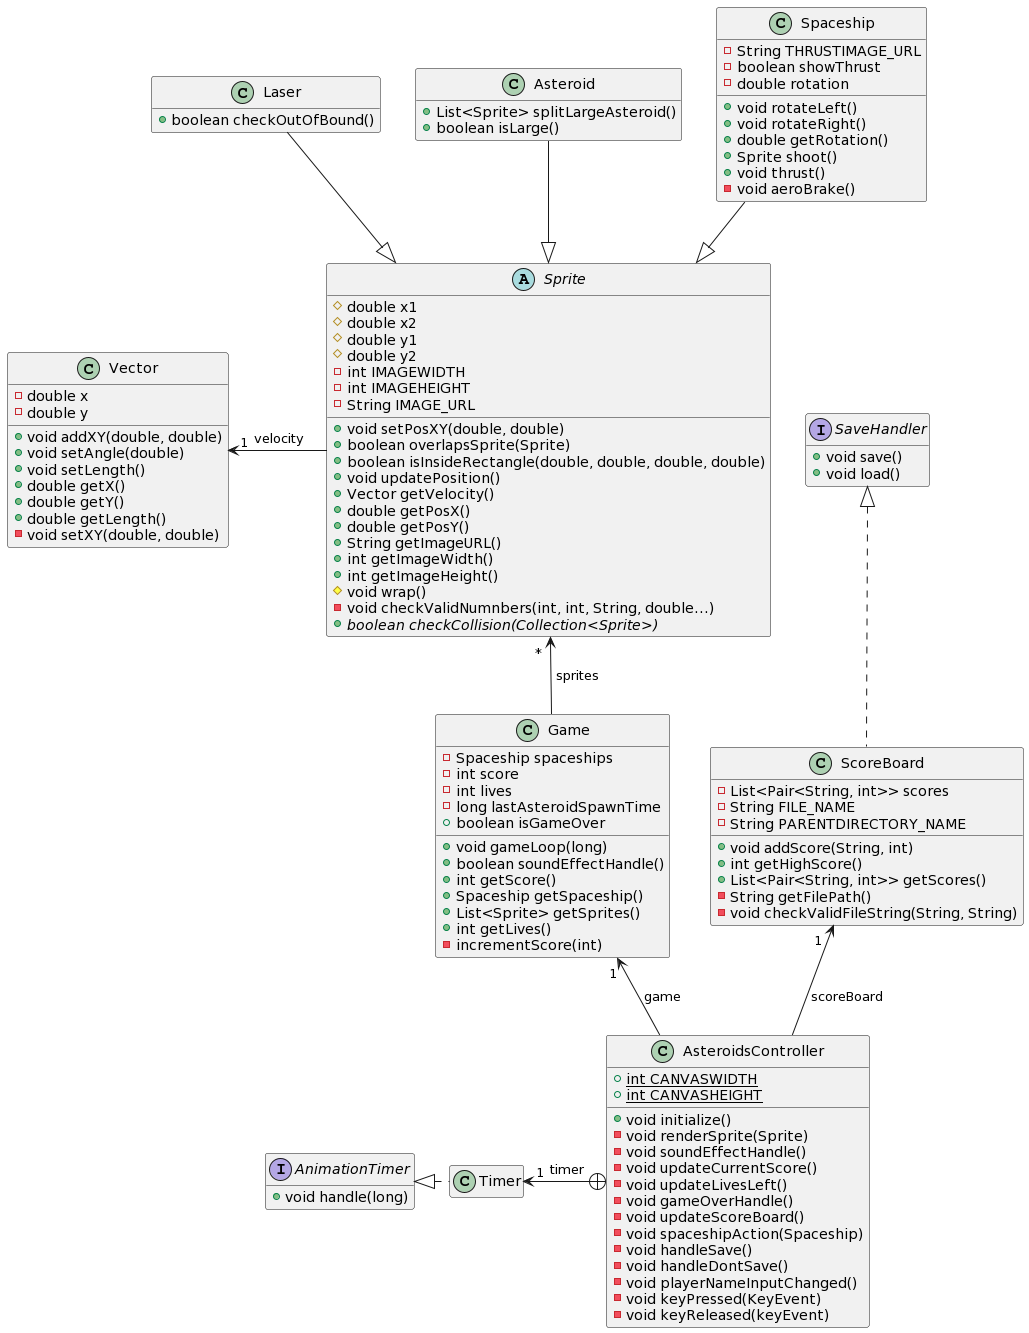
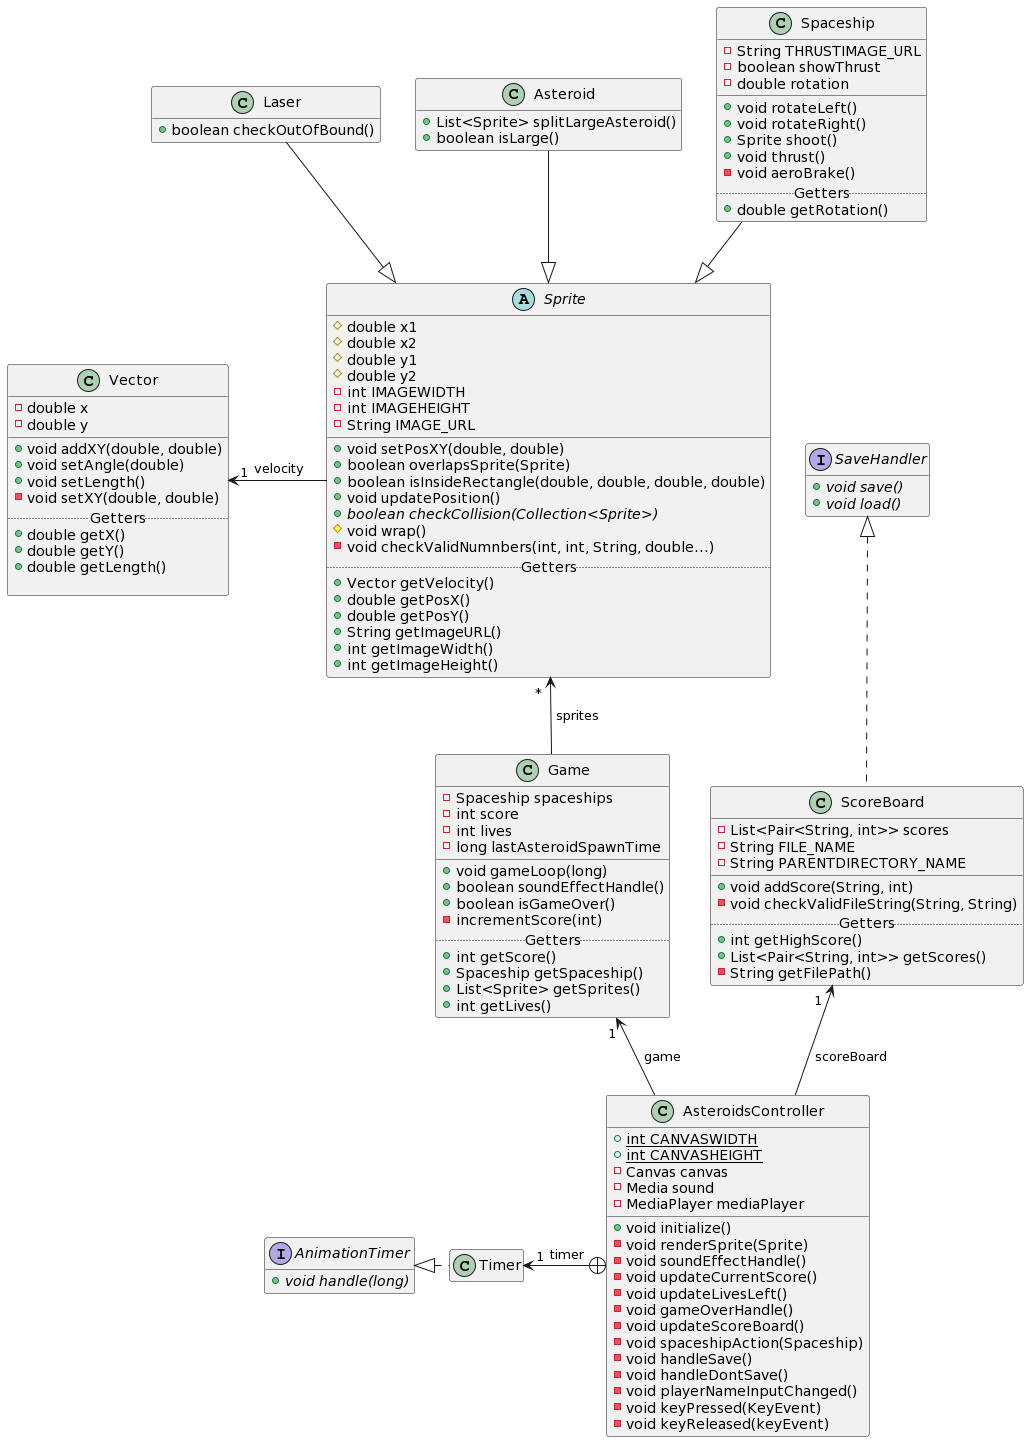
Added gameListener for improved performance

diff --git a/src/main/java/asteroids/AsteroidsController.java b/src/main/java/asteroids/AsteroidsController.java
@@ -19,7 +19,7 @@ import java.net.URISyntaxException;
 import java.util.regex.Pattern;
 import java.util.stream.Collectors;
 
-public class AsteroidsController {
+public class AsteroidsController implements GameListener {
 
     public static final int CANVASWIDTH = 800, CANVASHEIGHT = 600;
     private Timer timer;
@@ -60,7 +60,7 @@ public class AsteroidsController {
 
         mediaPlayer = new MediaPlayer(sound);
         timer = new Timer();
-        game = new Game();
+        game = new Game(this);
         scoreBoard = new ScoreBoard("saves", "score_saves");
 
         // Hide end of game screen.
@@ -86,10 +86,6 @@ public class AsteroidsController {
             gc.fillRect(0, 0, CANVASWIDTH, CANVASHEIGHT);
 
             game.gameLoop(nanotime);
-            soundEffectHandle();
-            updateCurrentScore();
-            updateLivesLeft();
-            gameOverHandel();
 
             // renders all the objects on screen
             game.getSprites().stream().forEach((sprite) -> {
@@ -119,32 +115,33 @@ public class AsteroidsController {
         gc.restore();
     }
 
-    private void soundEffectHandle() {
-        if (game.soundEffectHandle()) {
-            mediaPlayer.play();
-            mediaPlayer.seek(Duration.ZERO);
-        }
-    }
+    // private void soundEffectHandle() {
+    // if (game.soundEffectHandle()) {
+    // mediaPlayer.play();
+    // mediaPlayer.seek(Duration.ZERO);
+    // }
+    // }
 
-    private void updateCurrentScore() {
-        currentScore.setText("Score: " + game.getScore());
-    }
+    // private void updateCurrentScore() {
+    // currentScore.setText("Score: " + game.getScore());
+    // }
 
-    private void updateLivesLeft() {
-        livesLeft.setText(game.getLives() + " lives left");
-    }
+    // private void updateLivesLeft() {
+    // livesLeft.setText(game.getLives() + " lives left");
+    // }
 
-    // Shows the end of game screen when player has lost all of their lives.
-    private void gameOverHandel() {
-        if (!gameOverPane.isVisible() && game.isGameOver()) {
-            gameOverPane.setVisible(true);
-            newGameButton.setVisible(false);
-            savePane.setVisible(true);
+    // // Shows the end of game screen when player has lost all of their lives.
+    // private void gameOverHandel() {
+    // if (!gameOverPane.isVisible() && game.isGameOver()) {
+    // gameOverPane.setVisible(true);
+    // newGameButton.setVisible(false);
+    // savePane.setVisible(true);
 
-            scoreTextLarge.setText(game.getScore() > scoreBoard.getHighScore() ? "New Highscore!" : "Game over!");
-            scoreTextSmall.setText("Score: " + game.getScore());
-        }
-    }
+    // scoreTextLarge.setText(game.getScore() > scoreBoard.getHighScore() ? "New
+    // Highscore!" : "Game over!");
+    // scoreTextSmall.setText("Score: " + game.getScore());
+    // }
+    // }
 
     private void updateScoreBoard() {
         scoreBoardList.setItems(scoreBoard.getScores().stream()
@@ -170,7 +167,7 @@ public class AsteroidsController {
 
     @FXML
     private void startNewGame() {
-        game = new Game();
+        game = new Game(this);
         gameOverPane.setVisible(false);
     }
 
@@ -235,5 +232,34 @@ public class AsteroidsController {
             default -> {
             }
         }
+    }
+
+    @Override
+    public void livesLeftChanged(int livesLeft) {
+        this.livesLeft.setText(livesLeft + " lives left");
+
+    }
+
+    @Override
+    public void gameOver() {
+        gameOverPane.setVisible(true);
+        newGameButton.setVisible(false);
+        savePane.setVisible(true);
+
+        scoreTextLarge.setText(game.getScore() > scoreBoard.getHighScore() ? "New Highscore!" : "Game over!");
+        scoreTextSmall.setText("Score: " + game.getScore());
+
+    }
+
+    @Override
+    public void asteroidCollided() {
+        mediaPlayer.play();
+        mediaPlayer.seek(Duration.ZERO);
+
+    }
+
+    @Override
+    public void scoreChanged(int newScore) {
+        currentScore.setText("Score: " + newScore);
     }
 }

diff --git a/src/main/java/asteroids/Game.java b/src/main/java/asteroids/Game.java
@@ -7,16 +7,22 @@ import java.util.stream.Stream;
 
 public class Game {
 
+    private GameListener gameListener;
+
     private Spaceship spaceship = new Spaceship();
     private List<Sprite> sprites = new ArrayList<>();
     private int score = 0, lives = 3;
     private long lastAsteroidSpawnTime = 0;
 
-    public Game() {
+    public Game(GameListener gameListener) {
+        this.gameListener = gameListener;
+        gameListener.scoreChanged(score);
+        gameListener.livesLeftChanged(lives);
 
         // Spawns in inital asteroid and spaceship
         sprites.add(spaceship);
         sprites.add(new Asteroid());
+
     }
 
     public void gameLoop(long nanotime) {
@@ -39,6 +45,8 @@ public class Game {
                     // laser or spaceship.
                     else if (sprite instanceof Asteroid) {
                         incrementScore(10);
+                    } else if (sprite instanceof Spaceship && lives == 0) {
+                        gameListener.gameOver();
                     }
                     return null;
                 }).collect(Collectors.toList());
@@ -52,6 +60,7 @@ public class Game {
             spaceship = new Spaceship();
             sprites.add(spaceship);
             lives -= 1;
+            gameListener.livesLeftChanged(lives);
         }
 
         // Spawns and asteroid every four seconds (4 000 000 000 in nanoseconds)
@@ -64,10 +73,6 @@ public class Game {
         sprites.stream().forEach((sprite) -> {
             sprite.updatePosition();
         });
-    }
-
-    public boolean soundEffectHandle() {
-        return sprites.stream().anyMatch(sprite -> sprite instanceof Asteroid && sprite.checkCollision(sprites));
     }
 
     public int getScore() {
@@ -92,6 +97,8 @@ public class Game {
 
     private void incrementScore(int score) {
         this.score += score;
+        gameListener.scoreChanged(score);
+        gameListener.asteroidCollided();
     }
 
 }

diff --git a/src/main/java/asteroids/GameListener.java b/src/main/java/asteroids/GameListener.java
@@ -1,0 +1,13 @@
+package asteroids;
+
+public interface GameListener {
+
+    public void livesLeftChanged(int livedLeft);
+
+    public void gameOver();
+
+    public void asteroidCollided();
+
+    public void scoreChanged(int newScore);
+
+}
